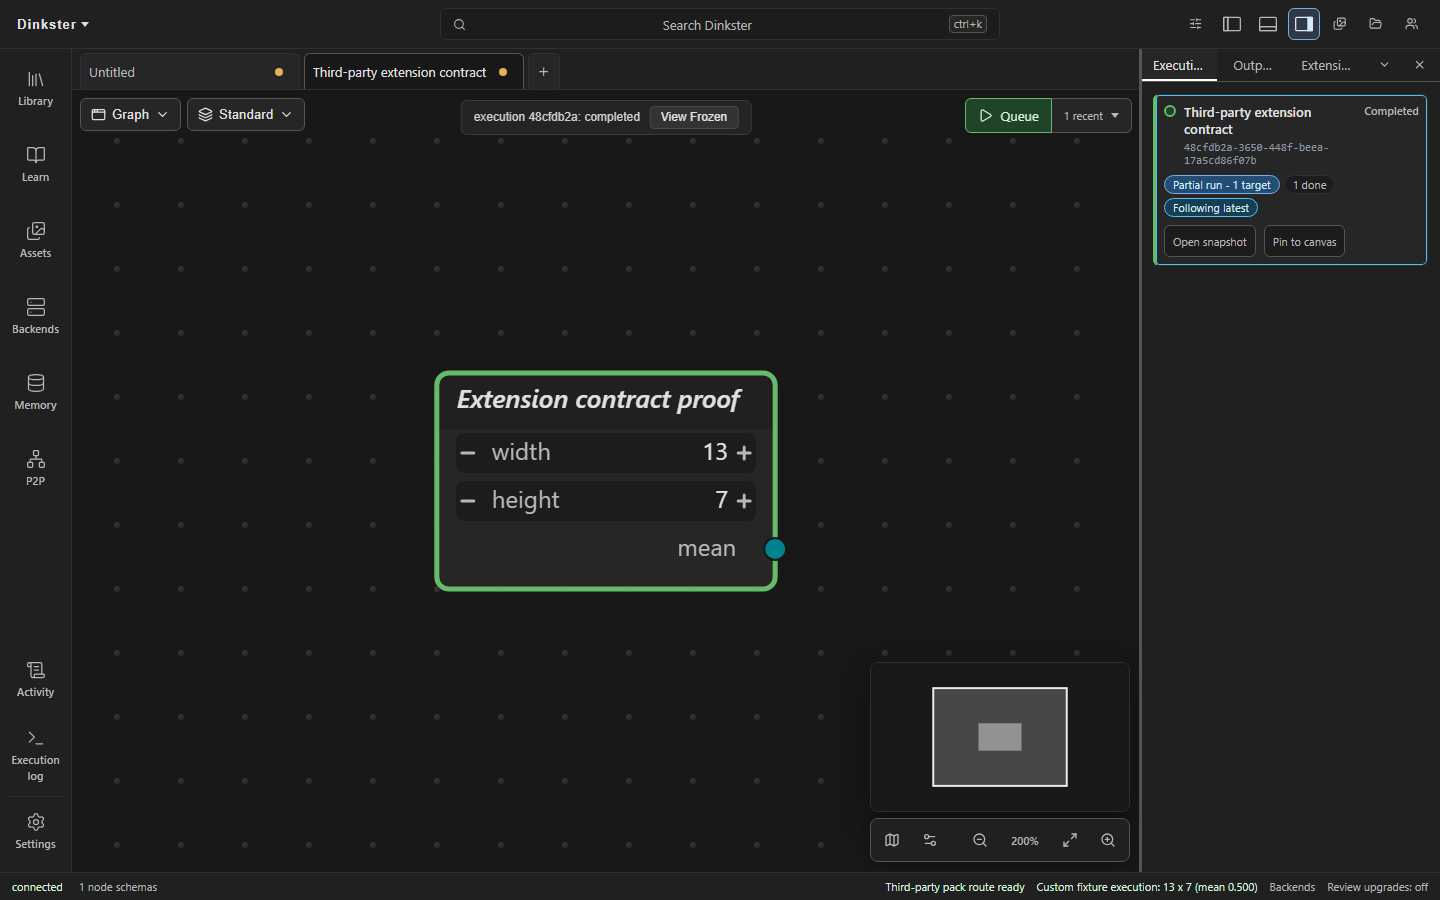
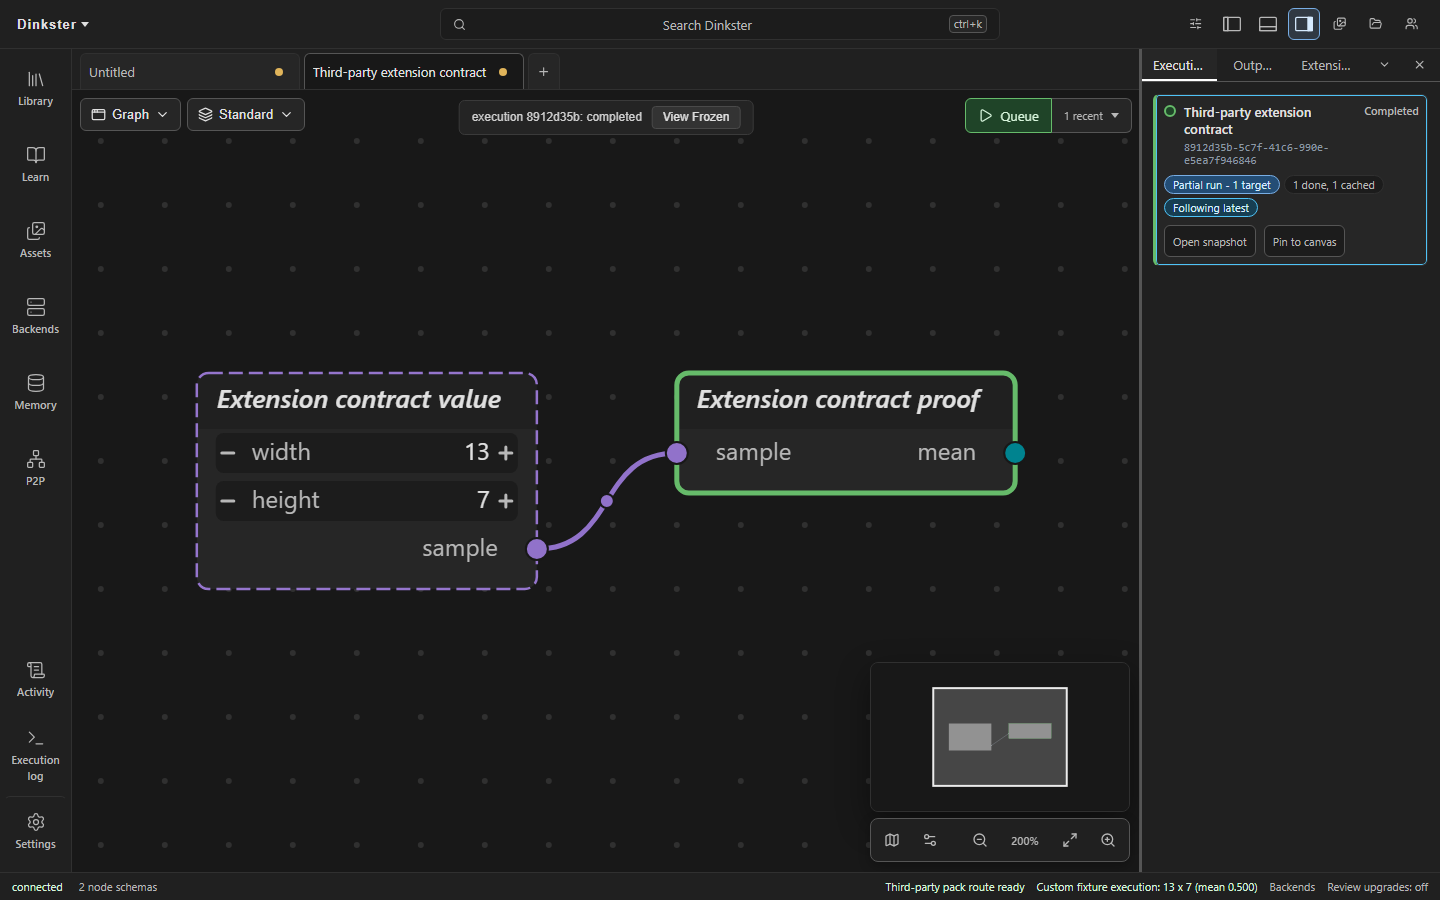
Prove pack custom types across linked nodes
Reviewed: the ordinary-pack browser proof renders and executes both custom nodes across their custom value type, pins the validated backend head, and updates the inspected evidence. No findings.
Amp-Thread-ID: https://ampcode.com/threads/T-01a0bc84-3620-7241-9ba5-94a959f375ff

diff --git a/packages/e2e/tests/extension-contract-pack.spec.ts b/packages/e2e/tests/extension-contract-pack.spec.ts
@@ -19,11 +19,12 @@ test('an ordinary third-party pack activates and executes through public contrac
           ?.registry.get()?.schemas
         return {
           contract: schemas?.has('fixture.extension.contract'),
+          value: schemas?.has('fixture.extension.value'),
           defaultPack: schemas?.has('dinkster.int'),
         }
       }),
     )
-    .toEqual({ contract: true, defaultPack: false })
+    .toEqual({ contract: true, value: true, defaultPack: false })
   const status = page.locator(
     '[data-host-ui-contribution="dinkster-extension-contract-fixture.status"]',
   )
@@ -46,22 +47,35 @@ test('an ordinary third-party pack activates and executes through public contrac
             name: 'Extension contract',
             nets: {},
             reroutes: {},
-            nextOrdinal: 2,
+            nextOrdinal: 3,
             nodes: {
+              value: {
+                id: 'value',
+                type: 'fixture.extension.value',
+                title: 'Extension contract value',
+                values: { width: 13, height: 7 },
+              },
               proof: {
                 id: 'proof',
                 type: 'fixture.extension.contract',
                 title: 'Extension contract proof',
-                values: { width: 13, height: 7 },
+                values: {},
               },
             },
-            links: {},
+            links: {
+              sample: {
+                id: 'sample',
+                from: { node: 'value', port: 'sample' },
+                to: { node: 'proof', port: 'sample' },
+              },
+            },
           },
         },
         view: {
           graphs: {
             root: {
               nodes: {
+                value: { position: { x: 80, y: 180 } },
                 proof: { position: { x: 320, y: 180 } },
               },
             },
@@ -81,7 +95,7 @@ test('an ordinary third-party pack activates and executes through public contrac
           .sort(),
       ),
     )
-    .toEqual(['proof'])
+    .toEqual(['proof', 'value'])
 
   await page.evaluate(async () => {
     const app = window.__dinksterTest!.app

diff --git a/docs/testing.md b/docs/testing.md
@@ -94,8 +94,8 @@ compatibility dependencies into the pinned ComfyUI interpreter used by its
 full composition. Its contract proof separately starts Dinkster with
 `--no-default-packs --pack tests/fixtures/extension-contract-pack/dinkster-pack.toml`
 on ports 15420/15421, activates the fixture pack's immutable frontend module,
-executes its custom node, and observes its typed route and event in
-host-owned UI.
+renders two custom nodes linked through the pack's custom value type, executes
+the consumer, and observes its typed route and event in host-owned UI.
 Both browser modes run inside the isolated network. Base, hosted and audit
 Playwright servers explicitly enable the v1 compatibility probe required by
 route-mocked specs; production startup remains native-only. No standing
